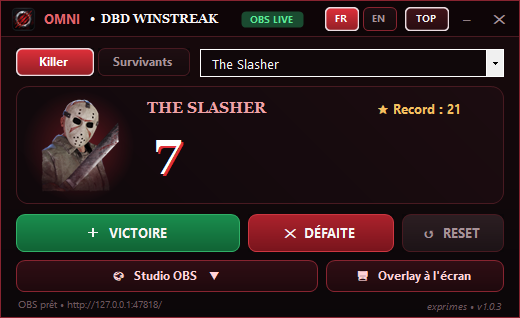
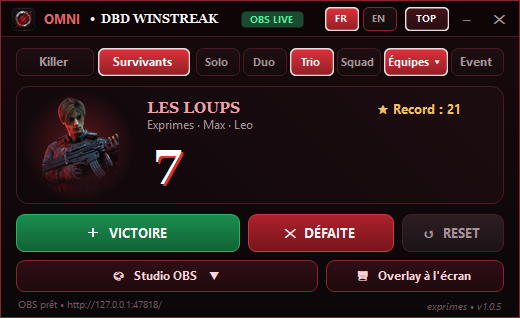
DBD Winstreak 1.0.6 (record plus lisible) et fiche mise à jour : capture survivant, Event, Solo/Duo/Trio/Squad, 45 killers

Changed region(s): [[0.0308, 0.1415, 0.9846, 0.2547], [0.0615, 0.3113, 0.2462, 0.5943], [0.2769, 0.3113, 0.5231, 0.5943]]

diff --git a/assets_omni/i18n.js b/assets_omni/i18n.js
@@ -128,15 +128,17 @@ const OMNI_TRANSLATIONS = {
     "wstreak.mockup_caption": "L'overlay posé sur le jeu : même sans streamer",
     "wstreak.tag": "Winstreak • Dead by Daylight",
     "wstreak.status": "Nouveau",
-    "wstreak.desc": "Compte tes winstreaks sur Dead by Daylight : une série et un record pour chaque killer, et pour chaque équipe de survivants. Affiche-la sur ton stream ou directement sur ton écran. Gratuit, sans compte.",
-    "wstreak.feat1": "Les 44 killers avec leur portrait, et tes équipes de 3 ou 4 survivants",
+    "wstreak.desc": "Compte tes winstreaks sur Dead by Daylight : une série et un record pour chaque killer, et en survivant en solo ou avec ton équipe. Affiche-la sur ton stream ou directement sur ton écran. Gratuit, sans compte.",
+    "wstreak.feat1": "Les 45 killers avec leur portrait, Art the Clown compris",
+    "wstreak.feat6": "Survivants en Solo, Duo, Trio ou Squad, avec tes équipes et le portrait de ton choix parmi 55",
+    "wstreak.feat7": "Bouton Event : une winstreak d'event à part de la normale",
     "wstreak.feat2": "10 designs d'overlay pour OBS, avec animations de victoire et de record",
     "wstreak.feat3": "Overlay à l'écran pour ceux qui ne streament pas",
     "wstreak.feat4": "Raccourcis clavier en jeu et touches Stream Deck",
     "wstreak.feat5": "En français et en anglais, avec mises à jour automatiques",
     "wstreak.install_title": "Utilisation",
     "wstreak.step1": "Télécharge DBDWinstreak.exe et lance-le : rien à installer. Si Windows affiche « Windows a protégé votre ordinateur » : Informations complémentaires → Exécuter quand même.",
-    "wstreak.step2": "Choisis ton killer ou ton équipe, puis clique Victoire ou Défaite après chaque partie.",
+    "wstreak.step2": "Choisis ton killer, ou Solo / Duo / Trio / Squad en survivant, puis clique Victoire ou Défaite après chaque partie.",
     "wstreak.step3": "Stream : Studio OBS → Copier l'URL OBS, puis dans OBS Sources → + → Navigateur. Sans stream : bouton « Overlay à l'écran » (jeu en Plein écran fenêtré).",
     "wstreak.dl_btn": "Télécharger DBD Winstreak (.exe)",
     "ovc.tag": "Mod Discord • Windows",
@@ -290,15 +292,17 @@ const OMNI_TRANSLATIONS = {
     "wstreak.mockup_caption": "The overlay on top of the game: no stream needed",
     "wstreak.tag": "Winstreak • Dead by Daylight",
     "wstreak.status": "New",
-    "wstreak.desc": "Track your Dead by Daylight winstreaks: a streak and a record for every killer, and for every survivor team. Show it on your stream or right on your screen. Free, no account.",
-    "wstreak.feat1": "All 44 killers with their portrait, plus your teams of 3 or 4 survivors",
+    "wstreak.desc": "Track your Dead by Daylight winstreaks: a streak and a record for every killer, and as a survivor solo or with your team. Show it on your stream or right on your screen. Free, no account.",
+    "wstreak.feat1": "All 45 killers with their portrait, Art the Clown included",
+    "wstreak.feat6": "Survivors in Solo, Duo, Trio or Squad, with your teams and the portrait of your choice among 55",
+    "wstreak.feat7": "Event button: an event winstreak kept apart from the normal one",
     "wstreak.feat2": "10 OBS overlay designs, with win and record animations",
     "wstreak.feat3": "On-screen overlay for players who don't stream",
     "wstreak.feat4": "In-game keyboard shortcuts and Stream Deck keys",
     "wstreak.feat5": "In French and English, with automatic updates",
     "wstreak.install_title": "How to use",
     "wstreak.step1": "Download DBDWinstreak.exe and run it: nothing to install. If Windows shows “Windows protected your PC”: More info → Run anyway.",
-    "wstreak.step2": "Pick your killer or your team, then click Win or Loss after each match.",
+    "wstreak.step2": "Pick your killer, or Solo / Duo / Trio / Squad as a survivor, then click Win or Loss after each match.",
     "wstreak.step3": "Streaming: OBS Studio → Copy the OBS URL, then in OBS Sources → + → Browser. Not streaming: “On-screen overlay” button (game in Windowed Fullscreen).",
     "wstreak.dl_btn": "Download DBD Winstreak (.exe)",
     "ovc.tag": "Discord Mod • Windows",

diff --git a/logiciels.html b/logiciels.html
@@ -499,7 +499,7 @@
         <div class="grid grid-cols-1 lg:grid-cols-12 gap-0 items-stretch">
 
           <div class="lg:col-span-7 bg-[#0b0714] p-6 sm:p-8 flex flex-col justify-center gap-5 border-b lg:border-b-0 lg:border-r border-purple-900/30">
-            <img src="assets_omni/winstreak_app.png?v=1.0.3" alt="DBD Winstreak" loading="lazy" class="w-full rounded-2xl border border-red-500/30 shadow-[0_0_40px_rgba(224,48,58,0.25)]">
+            <img src="assets_omni/winstreak_app.png?v=1.0.5" alt="DBD Winstreak" loading="lazy" class="w-full rounded-2xl border border-red-500/30 shadow-[0_0_40px_rgba(224,48,58,0.25)]">
             <div>
               <img src="assets_omni/winstreak_overlay.png" alt="Overlay DBD Winstreak en jeu" loading="lazy" class="w-full rounded-2xl border border-purple-500/30">
               <p data-i18n="wstreak.mockup_caption" class="text-[11px] text-purple-400/80 text-center mt-2">L'overlay posé sur le jeu : même sans streamer</p>
@@ -523,13 +523,21 @@
               </div>
 
               <p data-i18n="wstreak.desc" class="text-sm text-purple-200/80 leading-relaxed mb-6">
-                Compte tes winstreaks sur Dead by Daylight : une série et un record pour chaque killer, et pour chaque équipe de survivants. Affiche-la sur ton stream ou directement sur ton écran. Gratuit, sans compte.
+                Compte tes winstreaks sur Dead by Daylight : une série et un record pour chaque killer, et en survivant en solo ou avec ton équipe. Affiche-la sur ton stream ou directement sur ton écran. Gratuit, sans compte.
               </p>
 
               <div class="space-y-3 mb-6 text-xs font-semibold text-gray-200">
                 <div class="flex items-center gap-2.5">
                   <div class="w-5 h-5 rounded-full bg-red-600/30 border border-red-500/50 flex items-center justify-center text-red-400 font-bold">✓</div>
-                  <span data-i18n="wstreak.feat1">Les 44 killers avec leur portrait, et tes équipes de 3 ou 4 survivants</span>
+                  <span data-i18n="wstreak.feat1">Les 45 killers avec leur portrait, Art the Clown compris</span>
+                </div>
+                <div class="flex items-center gap-2.5">
+                  <div class="w-5 h-5 rounded-full bg-red-600/30 border border-red-500/50 flex items-center justify-center text-red-400 font-bold">✓</div>
+                  <span data-i18n="wstreak.feat6">Survivants en Solo, Duo, Trio ou Squad, avec tes équipes et le portrait de ton choix parmi 55</span>
+                </div>
+                <div class="flex items-center gap-2.5">
+                  <div class="w-5 h-5 rounded-full bg-red-600/30 border border-red-500/50 flex items-center justify-center text-red-400 font-bold">✓</div>
+                  <span data-i18n="wstreak.feat7">Bouton Event : une winstreak d'event à part de la normale</span>
                 </div>
                 <div class="flex items-center gap-2.5">
                   <div class="w-5 h-5 rounded-full bg-red-600/30 border border-red-500/50 flex items-center justify-center text-red-400 font-bold">✓</div>
@@ -553,7 +561,7 @@
                 <div data-i18n="wstreak.install_title" class="text-xs font-black text-white mb-2">Utilisation</div>
                 <ol class="list-decimal pl-4 space-y-1.5">
                   <li data-i18n="wstreak.step1">Télécharge DBDWinstreak.exe et lance-le : rien à installer. Si Windows affiche « Windows a protégé votre ordinateur » : Informations complémentaires → Exécuter quand même.</li>
-                  <li data-i18n="wstreak.step2">Choisis ton killer ou ton équipe, puis clique Victoire ou Défaite après chaque partie.</li>
+                  <li data-i18n="wstreak.step2">Choisis ton killer, ou Solo / Duo / Trio / Squad en survivant, puis clique Victoire ou Défaite après chaque partie.</li>
                   <li data-i18n="wstreak.step3">Stream : Studio OBS → Copier l'URL OBS, puis dans OBS Sources → + → Navigateur. Sans stream : bouton « Overlay à l'écran » (jeu en Plein écran fenêtré).</li>
                 </ol>
               </div>
